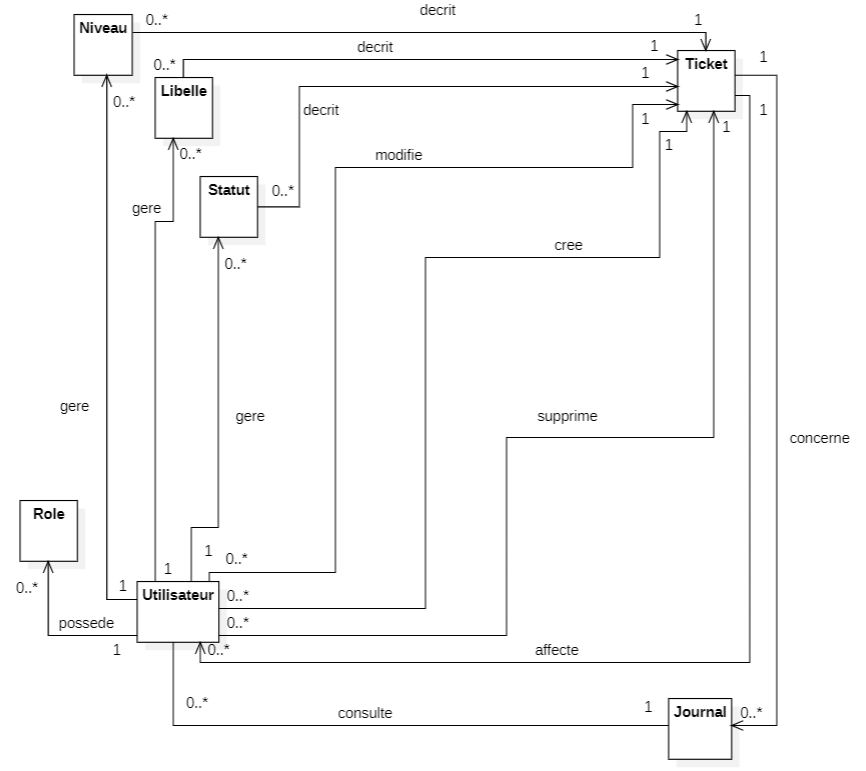
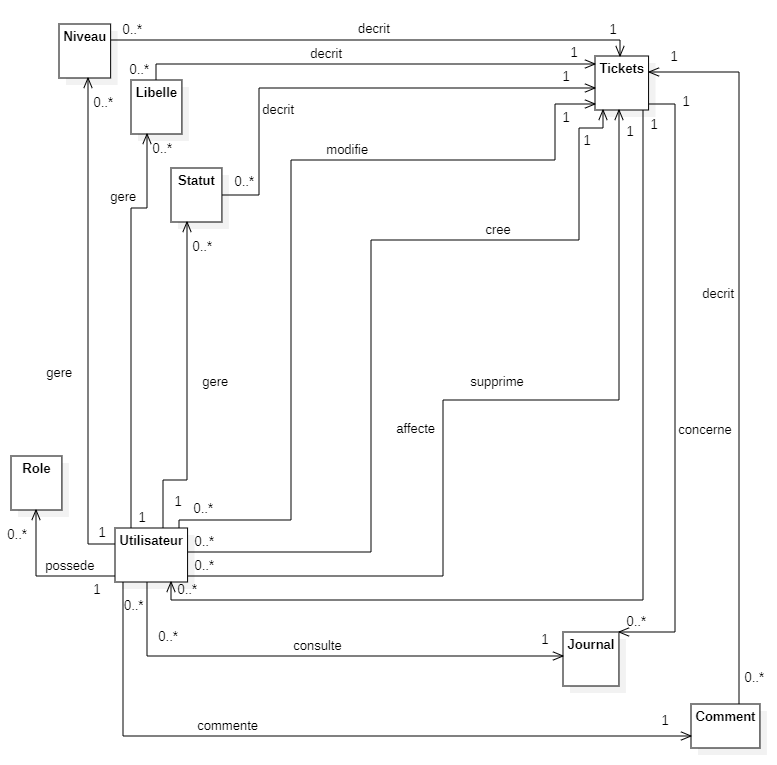
[FEAT/CONCEPTION] Finition de la partie conception des diagrammes de classe

diff --git a/doc/4_conception.md b/doc/4_conception.md
@@ -24,12 +24,26 @@ comments (__com_id__, com_title, com_comment, com_date, #ticket_id, #user_id, #r
 Pour créer le diagramme de classe, nous avons utilisé les tables données précédemment. Grâce aux liaisons entre elles,
 nous avons pu les lier avec des associations.  
 
+Nous avons créé la classe "Role" abstraction de "Utilisateur" pour permettre à l'utilisateur de posséder un rôle. 
+Ainsi, on peut appliquer les caractéristiques de chaque utilisateur à un rôle.  
+
+Ensuite, nous avons ajouté les classes "Niveau", "Libelle" et "Statut" abstraction de la classe "Utilisateur" pour que 
+l'utilisateur puisse gérer les différents aspects qui définissent les tickets.
+
+Aussi, nous avons introduit la classe "Tickets" abstraction des classes "Niveau", "Libelle", "Statut", "Utilisateur" 
+afin que les tickets soient caractérisés et attribués.  
+
+De plus, nous avons déclaré la classe "Journal" abstraction de "Ticket" afin de retrouver tous les tickets dans le 
+journal.  
+
+Nous avons aussi créé la classe "Comment" abstraction de "Utilisateur" qui sert pour la description du ticket.
 ![Diagramme_Classe](./img/Diagramme_Classe.png)
 
 ## Diagramme de Classe Détaillé
 
 Afin de pouvoir commencer la programmation, nous avons détaillé les classes que nous avons besoin.  
-Nous avons aussi détaillé les classes en renseignant les différents champs et les méthodes utiles au développement
+Nous avons aussi détaillé les classes en renseignant les différents champs et les méthodes utiles au développement  
 
+Dans ce diagramme, nous avons détaillé les classes en ajoutant les méthodes et les champs.
 ![Diagramme_Classe_Detaille](./img/Diagramme_Classe_Detaille.png)
 > FA2 | BARKER, OUALI, GUILLERAY, GRAVIER, LEMOUTON  
